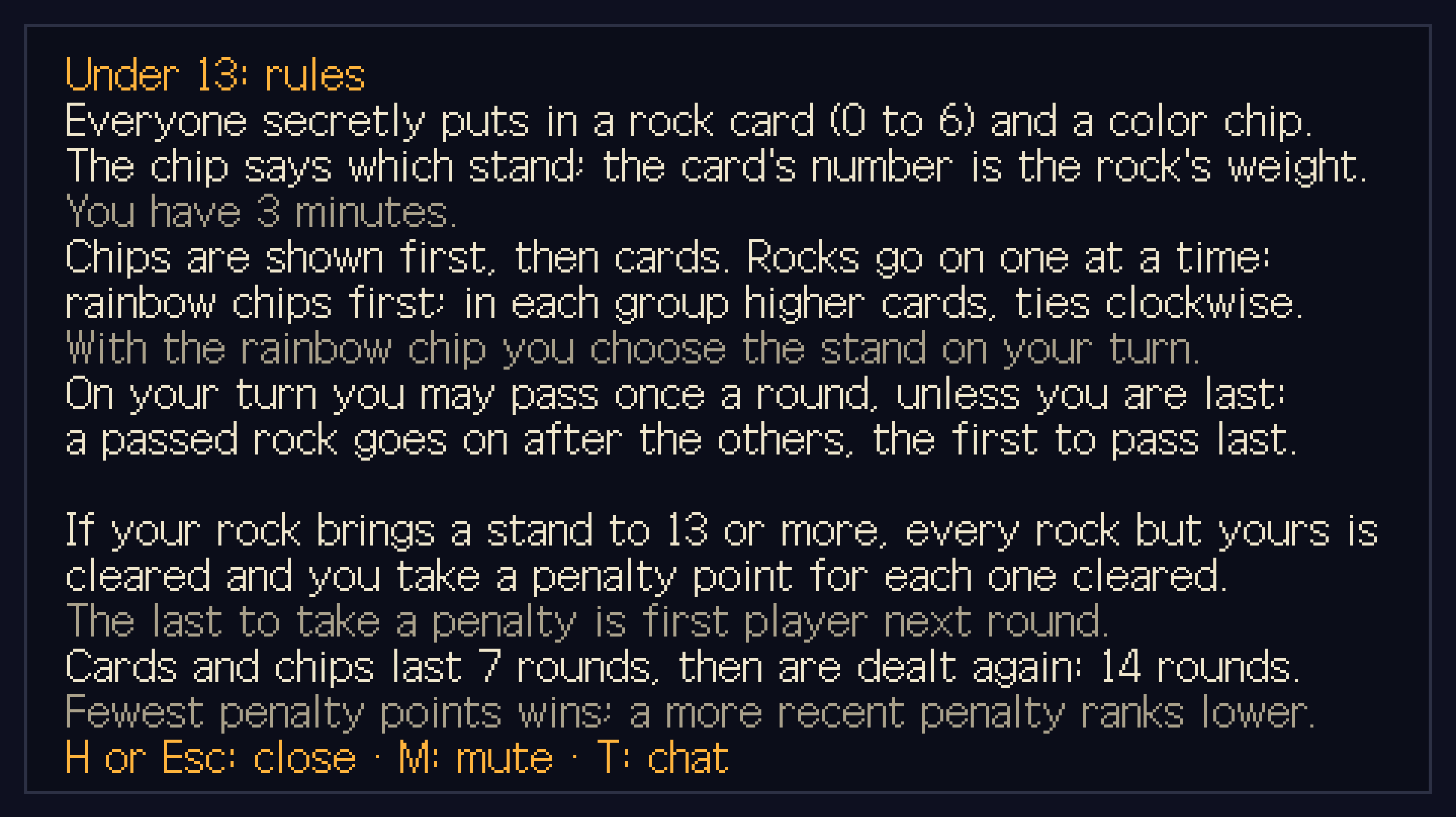
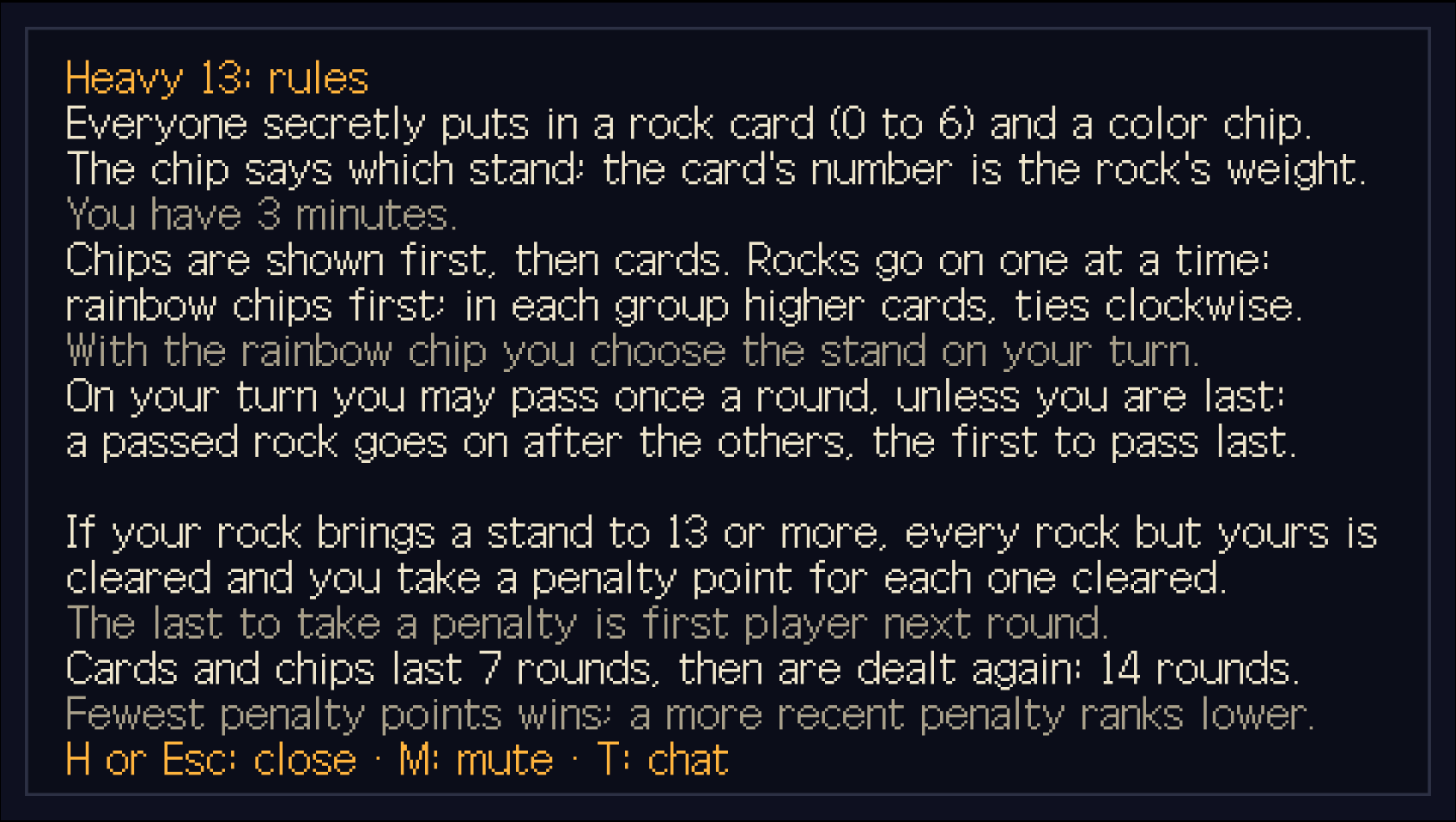
fix: the sixth game is shown under the show's name, 무거운 13
The game was built as "13 미만" / "Under 13": a name made up here, because
the assistant had set itself a limit not to copy a name the show coined. The
user had not asked for that limit, and the project's rule is that a game is
shown under the name the show gives it: "이름은 무거운13으로해 룰에
게임이름은 방송이름따라하기로했짜나" (2026-11-11). The game is now "무거운
13", and "Heavy 13" in English, which is what the show's English release
calls it (both English subtitle tracks, and the title card of episode 2).

CLAUDE.md, Project Rules: the limit is taken out of the rule on names, with
the user's words in its place: the rule holds for every game, also where the
show made the name up.

The game's id, `under-thirteen`, its folders and its evidence files keep
their names: they are not shown to players.

With six games the English form for a new room showed five and scrolled for
the sixth, with nothing to say so. Its list is a pixel tighter now and holds
six; and when a list does scroll, the game chosen is in sight when the form
is drawn.

Checked: the name in the form for a new room, the waiting room, the rules
sheet and the rules over the game (H), in Korean and in English (the eight
pictures of production/qa/evidence/under-2026-11-11-* added or replaced
here); tests/unit/games, tests/unit/under-thirteen and
tests/integration/under after the renaming (169 passed); the sixth game's
part of the smoke check (13 of 13); type check and build.
[…]

diff --git a/tests/unit/under-thirteen/rules.test.ts b/tests/unit/under-thirteen/rules.test.ts
@@ -111,7 +111,7 @@ const FOUR: Pick[] = [
 
 const range = (count: number): number[] => Array.from({ length: count }, (_, n) => n);
 
-describe("13 미만: the numbers of the game", () => {
+describe("무거운 13: the numbers of the game", () => {
   it("ships the show's numbers: thirteen, cards 0 to 6, two chips of each colour and a rainbow one, two sets, three minutes", () => {
     expect(isValidConfig(config)).toBe(true);
     expect(config.limit).toBe(13);
@@ -138,7 +138,7 @@ describe("13 미만: the numbers of the game", () => {
   });
 });
 
-describe("13 미만: starting", () => {
+describe("무거운 13: starting", () => {
   it("gives every player the whole set, leaves the stands bare, and opens the first round", () => {
     const state = game(4);
 
@@ -177,7 +177,7 @@ describe("13 미만: starting", () => {
   });
 });
 
-describe("13 미만: putting in a card and a chip", () => {
+describe("무거운 13: putting in a card and a chip", () => {
   it("takes the card and the chip out of the player's hand, and keeps them from everyone until they are shown", () => {
     const state = submit(game(3), 1, [5, "green"]);
 
@@ -349,7 +349,7 @@ describe("13 미만: putting in a card and a chip", () => {
   });
 });
 
-describe("13 미만: the order of placing", () => {
+describe("무거운 13: the order of placing", () => {
   /** What players 0, 1, 2 … put in, as submissions. */
   function submissions(picks: Pick[]): Submission[] {
     return picks.map(([card, chip], player) => ({ player, card, chip, forced: false }));
@@ -424,7 +424,7 @@ describe("13 미만: the order of placing", () => {
   });
 });
 
-describe("13 미만: placing a rock", () => {
+describe("무거운 13: placing a rock", () => {
   it("places a rock on the stand of its chip, whatever stand is asked for, and moves to the next player", () => {
     const state = place(place(placing(game(4, 1), FOUR), 3, "red"), 1, "blue");
 
@@ -587,7 +587,7 @@ describe("13 미만: placing a rock", () => {
   });
 });
 
-describe("13 미만: what is asked of whoever's rock it is", () => {
+describe("무거운 13: what is asked of whoever's rock it is", () => {
   it("asks everyone in the order but the last whether to place it or pass", () => {
     const first = placing(game(4, 1), FOUR);
     const second = place(first, 3, "red");
@@ -643,7 +643,7 @@ describe("13 미만: what is asked of whoever's rock it is", () => {
   });
 });
 
-describe("13 미만: passing", () => {
+describe("무거운 13: passing", () => {
   it("puts the rock of a player who passes after everyone else's, with nothing more asked of them", () => {
     const passed = pass(place(placing(game(4, 1), FOUR), 3, "red"), 1);
 
@@ -739,7 +739,7 @@ describe("13 미만: passing", () => {
   });
 });
 
-describe("13 미만: from round to round", () => {
+describe("무거운 13: from round to round", () => {
   /** A round of two players played out: both rocks placed, its end still shown. */
   function played(state: UnderState, picks: [Pick, Pick]): UnderState {
     let next = placing(state, picks);
@@ -860,7 +860,7 @@ describe("13 미만: from round to round", () => {
   });
 });
 
-describe("13 미만: players who go, and the clock", () => {
+describe("무거운 13: players who go, and the clock", () => {
   it("goes on while two of its players are there, and is over with fewer", () => {
     const state = game(3);
 
@@ -886,7 +886,7 @@ describe("13 미만: players who go, and the clock", () => {
   });
 });
 
-describe("13 미만: where everyone stands", () => {
+describe("무거운 13: where everyone stands", () => {
   /** A game whose players have these points, last taken at these moments. */
   function penalised(penalties: [points: number, last: number][]): UnderState {
     return { ...game(penalties.length), penalties: penalties.map(([points, last], player): Penalty => ({ player, points, last })) };
@@ -905,7 +905,7 @@ describe("13 미만: where everyone stands", () => {
   });
 });
 
-describe("13 미만: what a player is sent", () => {
+describe("무거운 13: what a player is sent", () => {
   it("sends a player their own hand and what they put in, and of the others only that they have", () => {
     const state = submit(submit(game(3), 0, [3, "red"]), 1, [5, "green"]);
 
@@ -980,7 +980,7 @@ describe("13 미만: what a player is sent", () => {
   });
 });
 
-describe("13 미만: the show's own match", () => {
+describe("무거운 13: the show's own match", () => {
   /** What one round came to. */
   interface Played {
     first: number;

diff --git a/src/client/games/under-thirteen/words.ts b/src/client/games/under-thirteen/words.ts
@@ -1,5 +1,5 @@
 /**
- * The words of 13 미만 (Under 13), in each language (`lang.ts`): its rules
+ * The words of 무거운 13 (Heavy 13), in each language (`lang.ts`): its rules
  * as the page shows them before a game, and everything its screen says.
  *
  * The screen is 480 by 270 pixels and its lines are placed by the pixel: a
@@ -26,7 +26,7 @@ export interface HelpNumbers {
 
 const ko = {
   sheet: {
-    title: "13 미만: 규칙",
+    title: "무거운 13: 규칙",
     parts: [
       "모두가 0~6이 적힌 바위 카드 1장과 색깔 칩 1개를 몰래 냅니다. 칩의 색은 바위를 올릴 받침대를, 카드의 숫자는 바위의 무게를 정합니다. 내는 시간은 3분입니다.",
       [
@@ -132,7 +132,7 @@ const ko = {
   },
   /** The rules over the screen (H), by the room's own numbers. */
   help: (n: HelpNumbers): HelpLine[] => [
-    { text: "13 미만: 규칙", tone: "title" },
+    { text: "무거운 13: 규칙", tone: "title" },
     { text: `모두가 ${n.low}~${n.high}이 적힌 바위 카드 1장과 색깔 칩 1개를 몰래 냅니다 (${Math.round(n.submitSeconds / 60)}분).` },
     { text: "칩의 색은 바위를 올릴 받침대를, 카드의 숫자는 바위의 무게를 정합니다." },
     { text: "" },
@@ -153,7 +153,7 @@ const ko = {
 
 const en: typeof ko = {
   sheet: {
-    title: "Under 13: rules",
+    title: "Heavy 13: rules",
     parts: [
       "Everyone secretly puts in one rock card, numbered 0 to 6, and one color chip. The chip's color says which stand the rock goes on; the card's number is the rock's weight. You have 3 minutes.",
       [
@@ -245,7 +245,7 @@ const en: typeof ko = {
     waitHost: "Waiting for the host to start a new game",
   },
   help: (n) => [
-    { text: "Under 13: rules", tone: "title" },
+    { text: "Heavy 13: rules", tone: "title" },
     { text: `Everyone secretly puts in a rock card (${n.low} to ${n.high}) and a color chip.` },
     { text: "The chip says which stand; the card's number is the rock's weight." },
     { text: `You have ${Math.round(n.submitSeconds / 60)} minutes.`, tone: "dim" },
@@ -264,5 +264,5 @@ const en: typeof ko = {
   ],
 };
 
-/** The words of 13 미만 (Under 13), in the language the page is read in. */
+/** The words of 무거운 13 (Heavy 13), in the language the page is read in. */
 export const WORDS = words({ ko, en });

diff --git a/tests/unit/under-thirteen/host.test.ts b/tests/unit/under-thirteen/host.test.ts
@@ -93,7 +93,7 @@ function runUntil(session: UnderSession, presence: Presence, there: (state: Unde
   return next;
 }
 
-describe("13 미만 in a room: starting", () => {
+describe("무거운 13 in a room: starting", () => {
   it("starts a game for the players in the room, each known by the slot they hold, in the order they sit", () => {
     const players = candidates(3);
 
@@ -155,7 +155,7 @@ describe("13 미만 in a room: starting", () => {
   });
 });
 
-describe("13 미만 in a room: a round", () => {
+describe("무거운 13 in a room: a round", () => {
   it("asks for the clock when the three minutes are up, and says how long is left", () => {
     const players = candidates(2);
     const session = started(players);
@@ -290,7 +290,7 @@ describe("13 미만 in a room: a round", () => {
   });
 });
 
-describe("13 미만 in a room: players who are not there", () => {
+describe("무거운 13 in a room: players who are not there", () => {
   it("waits for a player whose connection dropped, until the time is up", () => {
     const players = candidates(3);
     const away = presenceOf(players, [2]);
@@ -365,7 +365,7 @@ describe("13 미만 in a room: players who are not there", () => {
   });
 });
 
-describe("13 미만 in a room: bots", () => {
+describe("무거운 13 in a room: bots", () => {
   /** One person and the bots that fill the room. */
   const person = candidates(1);
 
@@ -440,7 +440,7 @@ describe("13 미만 in a room: bots", () => {
   });
 });
 
-describe("13 미만 in a room: what is kept", () => {
+describe("무거운 13 in a room: what is kept", () => {
   it("holds a place for each of its players and for nobody else", () => {
     const session = started(candidates(2));
 

diff --git a/tests/integration/under/under.test.ts b/tests/integration/under/under.test.ts
@@ -13,7 +13,7 @@ const WITH_BOTS = 4;
 /** The most a room holds. */
 const FULL_ROOM = 16;
 
-/** Connects to `room`, a room of 13 미만, and joins as player `player`. */
+/** Connects to `room`, a room of 무거운 13, and joins as player `player`. */
 function open(room: string, player: number, create = false): Promise<TestClient> {
   return join(room, { player, create, game: GAME });
 }
@@ -90,7 +90,7 @@ afterEach(() => {
   vi.useRealTimers();
 });
 
-describe("GameRoom: a room of 13 미만", () => {
+describe("GameRoom: a room of 무거운 13", () => {
   it("starts a game for those in the room: bare stands, a whole set each, the same first player for everyone", async () => {
     const clients = await players("UTAAA", 3);
 
@@ -281,7 +281,7 @@ describe("GameRoom: a room of 13 미만", () => {
   });
 });
 
-describe("GameRoom: 13 미만 with bots", () => {
+describe("GameRoom: 무거운 13 with bots", () => {
   it("fills the places with bots that put in and place for themselves: a round is played with nothing done for anyone", async () => {
     const stub = env.GameRoom.getByName("UTAAK");
     const person = await open("UTAAK", 0, true);
@@ -309,7 +309,7 @@ describe("GameRoom: 13 미만 with bots", () => {
   });
 });
 
-describe("GameRoom: a full room of 13 미만", () => {
+describe("GameRoom: a full room of 무거운 13", () => {
   it("takes sixteen players through a round: sixteen rocks on the stands or taken off them", async () => {
     const stub = env.GameRoom.getByName("UTAAL");
     const clients = await players("UTAAL", FULL_ROOM);

diff --git a/tests/unit/games/games.test.ts b/tests/unit/games/games.test.ts
@@ -37,10 +37,10 @@ describe("the games a room can be made for", () => {
     expect(game.teamSize).toBeLessThan(game.maxPlayers);
   });
 
-  it("names each game in Korean as the show does, and in English as its English release does: all but the sixth, whose name the show coined", () => {
-    // CLAUDE.md, Project Rules: a game is shown under the name the show gives it; a name the show coined for its game is not copied, and that game has a plain one
-    expect(GAME_IDS.map((id) => GAMES[id].title.ko)).toEqual(["러시안 룰렛", "네모 세기", "잔디 깔기", "큐브 세기", "기억 포커", "13 미만"]);
-    expect(GAME_IDS.map((id) => GAMES[id].title.en)).toEqual(["Russian Roulette", "Count the Rectangles", "Lay the Grass", "Count the Cubes", "Memory Poker", "Under 13"]);
+  it("names each game in Korean as the show does, and in English as its English release does", () => {
+    // CLAUDE.md, Project Rules: a game is shown under the name the show gives it, also where the show made the name up for it
+    expect(GAME_IDS.map((id) => GAMES[id].title.ko)).toEqual(["러시안 룰렛", "네모 세기", "잔디 깔기", "큐브 세기", "기억 포커", "무거운 13"]);
+    expect(GAME_IDS.map((id) => GAMES[id].title.en)).toEqual(["Russian Roulette", "Count the Rectangles", "Lay the Grass", "Count the Cubes", "Memory Poker", "Heavy 13"]);
   });
 
   it("lets one player alone start the two counting games, and no other game", () => {

diff --git a/src/client/style.css b/src/client/style.css
@@ -425,14 +425,22 @@ button.choice[aria-pressed="true"] {
 }
 
 /*
- * And the games to pick from go one to a row, five rows deep. The room for
- * them comes from the two headings inside the form, which are said to a
- * screen reader and not shown: the buttons under them say what they are.
+ * And the games to pick from go one to a row, six rows deep: a pixel apart
+ * and a pixel lower than other buttons, which is what six rows have room for
+ * (six of 16 and five gaps of 1 are the 101 pixels the form has). Past that
+ * the list scrolls. The room for them comes from the two headings inside the
+ * form, which are said to a screen reader and not shown: the buttons under
+ * them say what they are.
  */
 :root[lang="en"] #game-choices {
   grid-template-columns: 1fr;
+  gap: 1px;
   max-height: 101px;
   margin-bottom: 4px;
+}
+
+:root[lang="en"] #game-choices button {
+  height: 16px;
 }
 
 :root[lang="en"] #game-label,

diff --git a/src/shared/games/under-thirteen/host.ts b/src/shared/games/under-thirteen/host.ts
@@ -1,5 +1,5 @@
 /**
- * 13 미만 as a room hosts it (`hosting.ts`): who the players are, when the
+ * 무거운 13 as a room hosts it (`hosting.ts`): who the players are, when the
  * time to put in a card and a chip or to place a rock runs out, and what
  * each player is sent.
  *
@@ -212,7 +212,7 @@ function botActs(session: UnderSession, player: number, now: number): UnderSessi
   return result.ok ? { ...session, state: result.state, rng: source.state } : { ...session, rng: source.state };
 }
 
-/** 13 미만, for a room to host. */
+/** 무거운 13, for a room to host. */
 export const underHost: GameHost<UnderSession, UnderHostRefusal> = {
   start(current, players: Candidate[], request: StartRequest, presence) {
     if (current !== null && current.state.phase !== "ended") return refuse("already-playing");

diff --git a/src/client/games/under-thirteen/screen.ts b/src/client/games/under-thirteen/screen.ts
@@ -1,5 +1,5 @@
 /**
- * The screen of 13 미만: the three stands and the rocks on them, what
+ * The screen of 무거운 13: the three stands and the rocks on them, what
  * everyone put in this round and in which order the rocks go on, and the
  * player's own cards and chips.
  *
@@ -18,7 +18,7 @@ import { isMuted, setMuted, sfx, startAudio } from "../../game/sound";
 import { LOG_PITCH, PANEL_WIDTH, entryAt, isCrowded, panelLayout, underList } from "../panel";
 import { WORDS } from "./words";
 
-/** What the room sends about a game of 13 미만. */
+/** What the room sends about a game of 무거운 13. */
 export type UnderMessage = Extract<ServerMessage, { type: "game"; game: "under-thirteen" }>;
 
 /** What the screen asks of whoever owns the connection. */

diff --git a/src/client/main.ts b/src/client/main.ts
@@ -531,6 +531,8 @@ function renderNewRoom(): void {
     return button;
   });
   gameChoices.replaceChildren(...choices);
+  // with more games than the list has rows it scrolls: the game chosen is in sight when the form is drawn
+  choices[GAME_IDS.indexOf(chosenGame)]?.scrollIntoView({ block: "nearest" });
   const game = GAMES[chosenGame];
   listedYes.setAttribute("aria-pressed", String(chosenListed));
   listedNo.setAttribute("aria-pressed", String(!chosenListed));

diff --git a/tests/integration/support.ts b/tests/integration/support.ts
@@ -179,7 +179,7 @@ export class TestClient extends Inbox<ServerMessage> {
     }
   }
 
-  /** Reads forward to the first message about a game of 13 미만 that satisfies `match`. */
+  /** Reads forward to the first message about a game of 무거운 13 that satisfies `match`. */
   async underWhere(match: (game: UnderMessage) => boolean = () => true): Promise<UnderMessage> {
     for (;;) {
       const message = await this.nextOf("game");

diff --git a/src/shared/games/under-thirteen/rules.ts b/src/shared/games/under-thirteen/rules.ts
@@ -1,5 +1,5 @@
 /**
- * The rules of 13 미만 (Under 13): everyone secretly puts in a rock card and
+ * The rules of 무거운 13 (Heavy 13): everyone secretly puts in a rock card and
  * a colour chip, and the rocks are then set on three stands one player at a
  * time; whoever brings a stand to thirteen or more takes its rocks as
  * penalty points. Pure functions over plain data: nothing here reads the

diff --git a/README.md b/README.md
@@ -33,7 +33,7 @@
 | **잔디 깔기** | 2~16명 | 공원에 잔디 타일을 놓으면 번호만큼 승점. 큰 번호일수록 늦게 놓습니다. |
 | **큐브 세기** | 1~16명 | 쌓인 큐브가 몇 개인지 먼저 세어 답하세요. 틀리면 20초 동안 잠깁니다. |
 | **기억 포커** | 2~16명 | 카드 16장을 외워 두 장을 고르세요. 공유 카드와 만든 족보가 높으면 승리. |
-| **13 미만** | 2~16명 | 바위 카드와 색깔 칩을 몰래 내세요. 내 바위로 받침대가 13 이상이 되면 벌점. |
+| **무거운 13** | 2~16명 | 바위 카드와 색깔 칩을 몰래 내세요. 내 바위로 받침대가 13 이상이 되면 벌점. |
 
 큐브 세기, 네모 세기, 잔디 깔기, 기억 포커는 시즌 첫 메인 매치 "양자택일"
 안의 미니게임 네 개로, 하나씩 따로 만들었습니다. 미니게임에 딸린 양자택일의
@@ -43,15 +43,14 @@
 방송에서 최하위 두 사람이 윗순위에 도전하는 일대일 연승 게임이었는데, 방에는
 그런 순위가 없어 모두가 라운드마다 둘씩 짝지어 겨룹니다.
 
-13 미만은 시즌의 첫 감옥 매치입니다. 이 게임만은 방송이 지어 붙인 이름을
-쓰지 않고, 무엇을 하는 게임인지 풀어 쓴 이름을 달았습니다. 규칙과 진행
-절차는 방송 그대로입니다: 방송에서 일곱 명이 한 14라운드를 자막에서 다시
-짜서 이 프로젝트의 규칙으로 돌리면 순서, 벌점, 최종 점수가 모두 같게 나옵니다
-(다시 짠 판의 일부는 추론이고, 설계 기록에 적어 두었습니다).
+무거운 13은 시즌의 첫 감옥 매치입니다. 규칙과 진행 절차는 방송 그대로입니다:
+방송에서 일곱 명이 한 14라운드를 자막에서 다시 짜서 이 프로젝트의 규칙으로
+돌리면 순서, 벌점, 최종 점수가 모두 같게 나옵니다 (다시 짠 판의 일부는
+추론이고, 설계 기록에 적어 두었습니다).
 
 큐브 세기와 네모 세기는 방에 혼자 있어도 시작할 수 있습니다 (세어서 맞히는
 게임이라 상대 없이도 풀 수 있습니다. 봇은 들어오지 않습니다). 잔디 깔기,
-기억 포커, 13 미만, 러시안 룰렛은 사람이 모여야 시작합니다.
+기억 포커, 무거운 13, 러시안 룰렛은 사람이 모여야 시작합니다.
 
 | 러시안 룰렛 | 네모 세기 |
 |---|---|
@@ -65,9 +64,9 @@
 |---|---|
 | ![기억 포커 고르는 화면](production/qa/evidence/poker-2026-11-11-choose.png) | ![기억 포커 결과 화면](production/qa/evidence/poker-2026-11-11-reveal.png) |
 
-| 13 미만: 카드와 칩 내기 | 13 미만: 바위를 놓을 차례 |
+| 무거운 13: 카드와 칩 내기 | 무거운 13: 바위를 놓을 차례 |
 |---|---|
-| ![13 미만 카드와 칩을 고르는 화면](production/qa/evidence/under-2026-11-11-submit.png) | ![13 미만 내 차례 화면](production/qa/evidence/under-2026-11-11-my-turn.png) |
+| ![무거운 13 카드와 칩을 고르는 화면](production/qa/evidence/under-2026-11-11-submit.png) | ![무거운 13 내 차례 화면](production/qa/evidence/under-2026-11-11-my-turn.png) |
 
 규칙은 방송에서 공개된 그대로이고, 공개된 규칙이 말하지 않는 부분은
 방송 화면으로 확인하거나 임시로 채웠습니다. 무엇을 그대로 가져왔고 무엇을
@@ -78,7 +77,7 @@
 - 잔디 깔기: [`design/games/lay-the-grass.md`](design/games/lay-the-grass.md)
 - 큐브 세기: [`design/games/count-cubes.md`](design/games/count-cubes.md) (문제의 그림은 공개된 규칙에 없어 이 프로젝트가 채운 것)
 - 기억 포커: [`design/games/memory-poker.md`](design/games/memory-poker.md) (외우기 20초, 고르기 60초, 족보는 방송 그대로; 모두가 둘씩 겨루는 방식과 5라운드는 방을 위해 채운 것)
-- 13 미만: [`design/games/under-thirteen.md`](design/games/under-thirteen.md) (카드와 칩, 놓는 순서, 패스, 13 이상이면 벌점, 14라운드는 방송 그대로; 차례의 20초와 첫 선 플레이어를 무작위로 정하는 것은 방을 위해 채운 것)
+- 무거운 13: [`design/games/under-thirteen.md`](design/games/under-thirteen.md) (카드와 칩, 놓는 순서, 패스, 13 이상이면 벌점, 14라운드는 방송 그대로; 차례의 20초와 첫 선 플레이어를 무작위로 정하는 것은 방을 위해 채운 것)
 
 ## 방에서 되는 것
 
@@ -147,7 +146,7 @@ src/
     games.json            #   게임 목록: 이름, 설명, 인원
     hosts.ts              #   게임 id → 그 게임을 진행하는 호스트
     game/                 #   러시안 룰렛 규칙, 기본 봇
-    games/<게임 id>/       #   네모 세기, 잔디 깔기, 큐브 세기, 기억 포커, 13 미만의 규칙과 설정
+    games/<게임 id>/       #   네모 세기, 잔디 깔기, 큐브 세기, 기억 포커, 무거운 13의 규칙과 설정
     protocol.ts           #   소켓 메시지
     *-config.json         #   방, 채팅, 음성, 방 목록의 설정값
   client/                 # 브라우저: 로비, 대기실, 채팅, 음성
